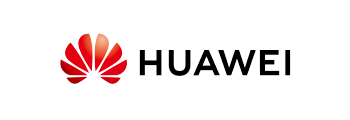
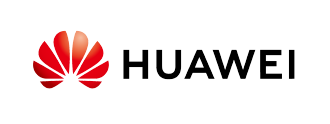
合作伙伴更新202210201758

Changed region(s): [[0.0909, 0.25, 0.9091, 0.725]]

diff --git a/talent-certificate/src/views/access/rzCombine.vue b/talent-certificate/src/views/access/rzCombine.vue
@@ -23,8 +23,8 @@ export default {
     return {
       partnerImg: [
         { id: "01", src: require("../../assets/images/issedu.png") },
-        { id: "02", src: require("../../assets/images/huawei.png") },
-        { id: "03", src: require("../../assets/images/zsoft.png") },
+        { id: "02", src: require("../../assets/images/huawei-old.png") },
+        { id: "03", src: require("../../assets/images/zsoft-old.png") },
         { id: "04", src: require("../../assets/images/company.svg") },
         { id: "05", src: require("../../assets/images/company.svg") },
         { id: "06", src: require("../../assets/images/company.svg") },
